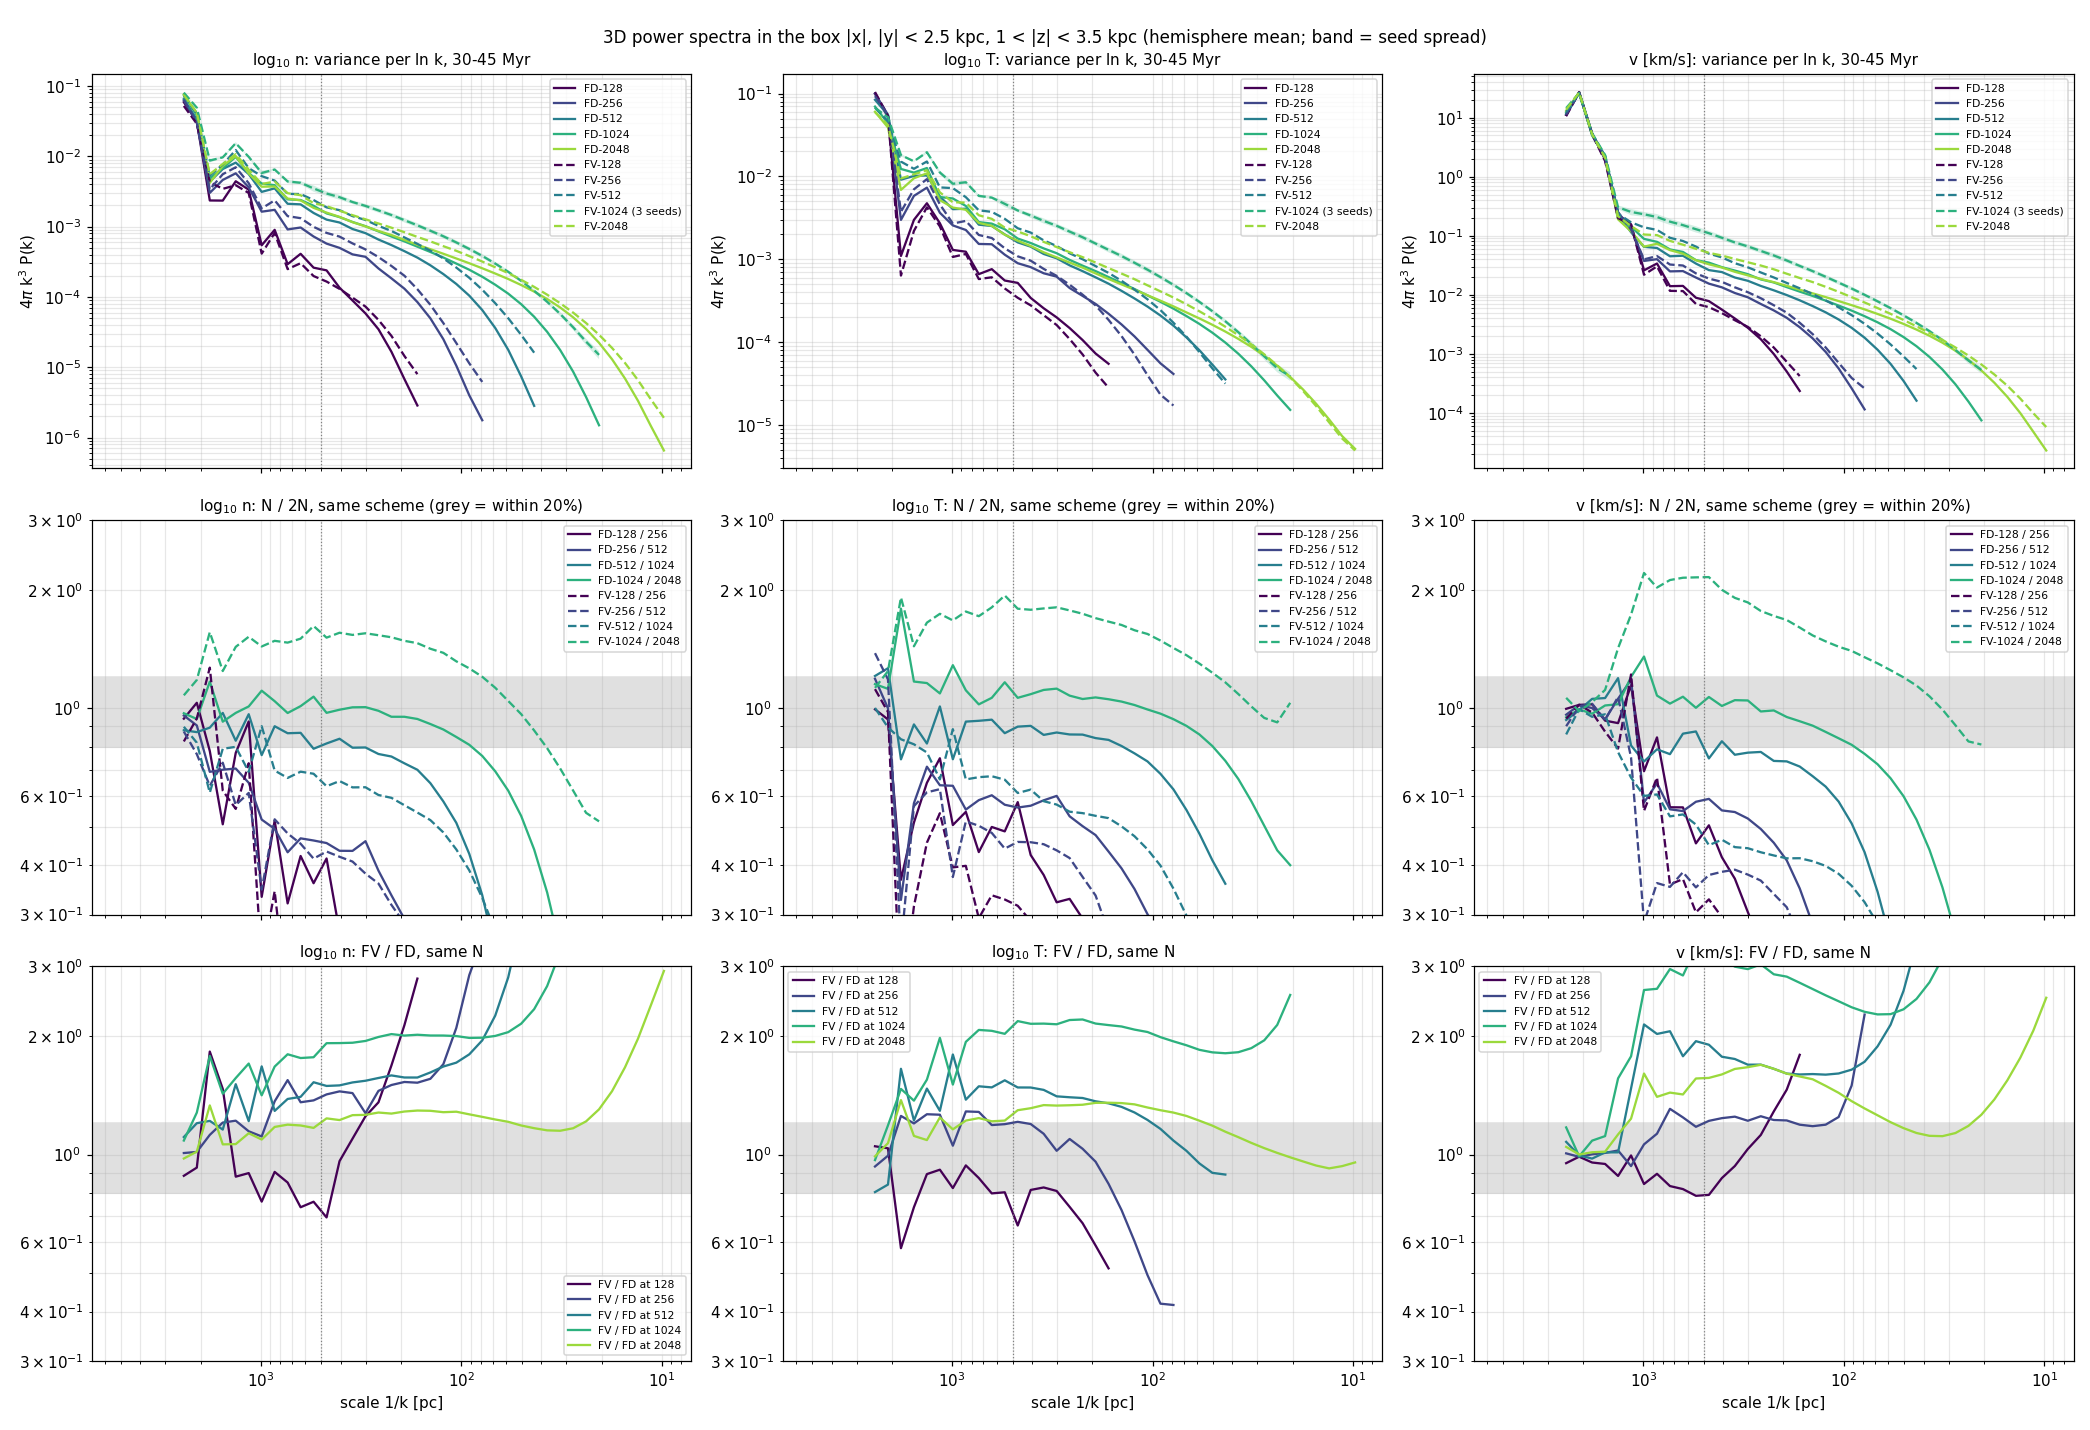
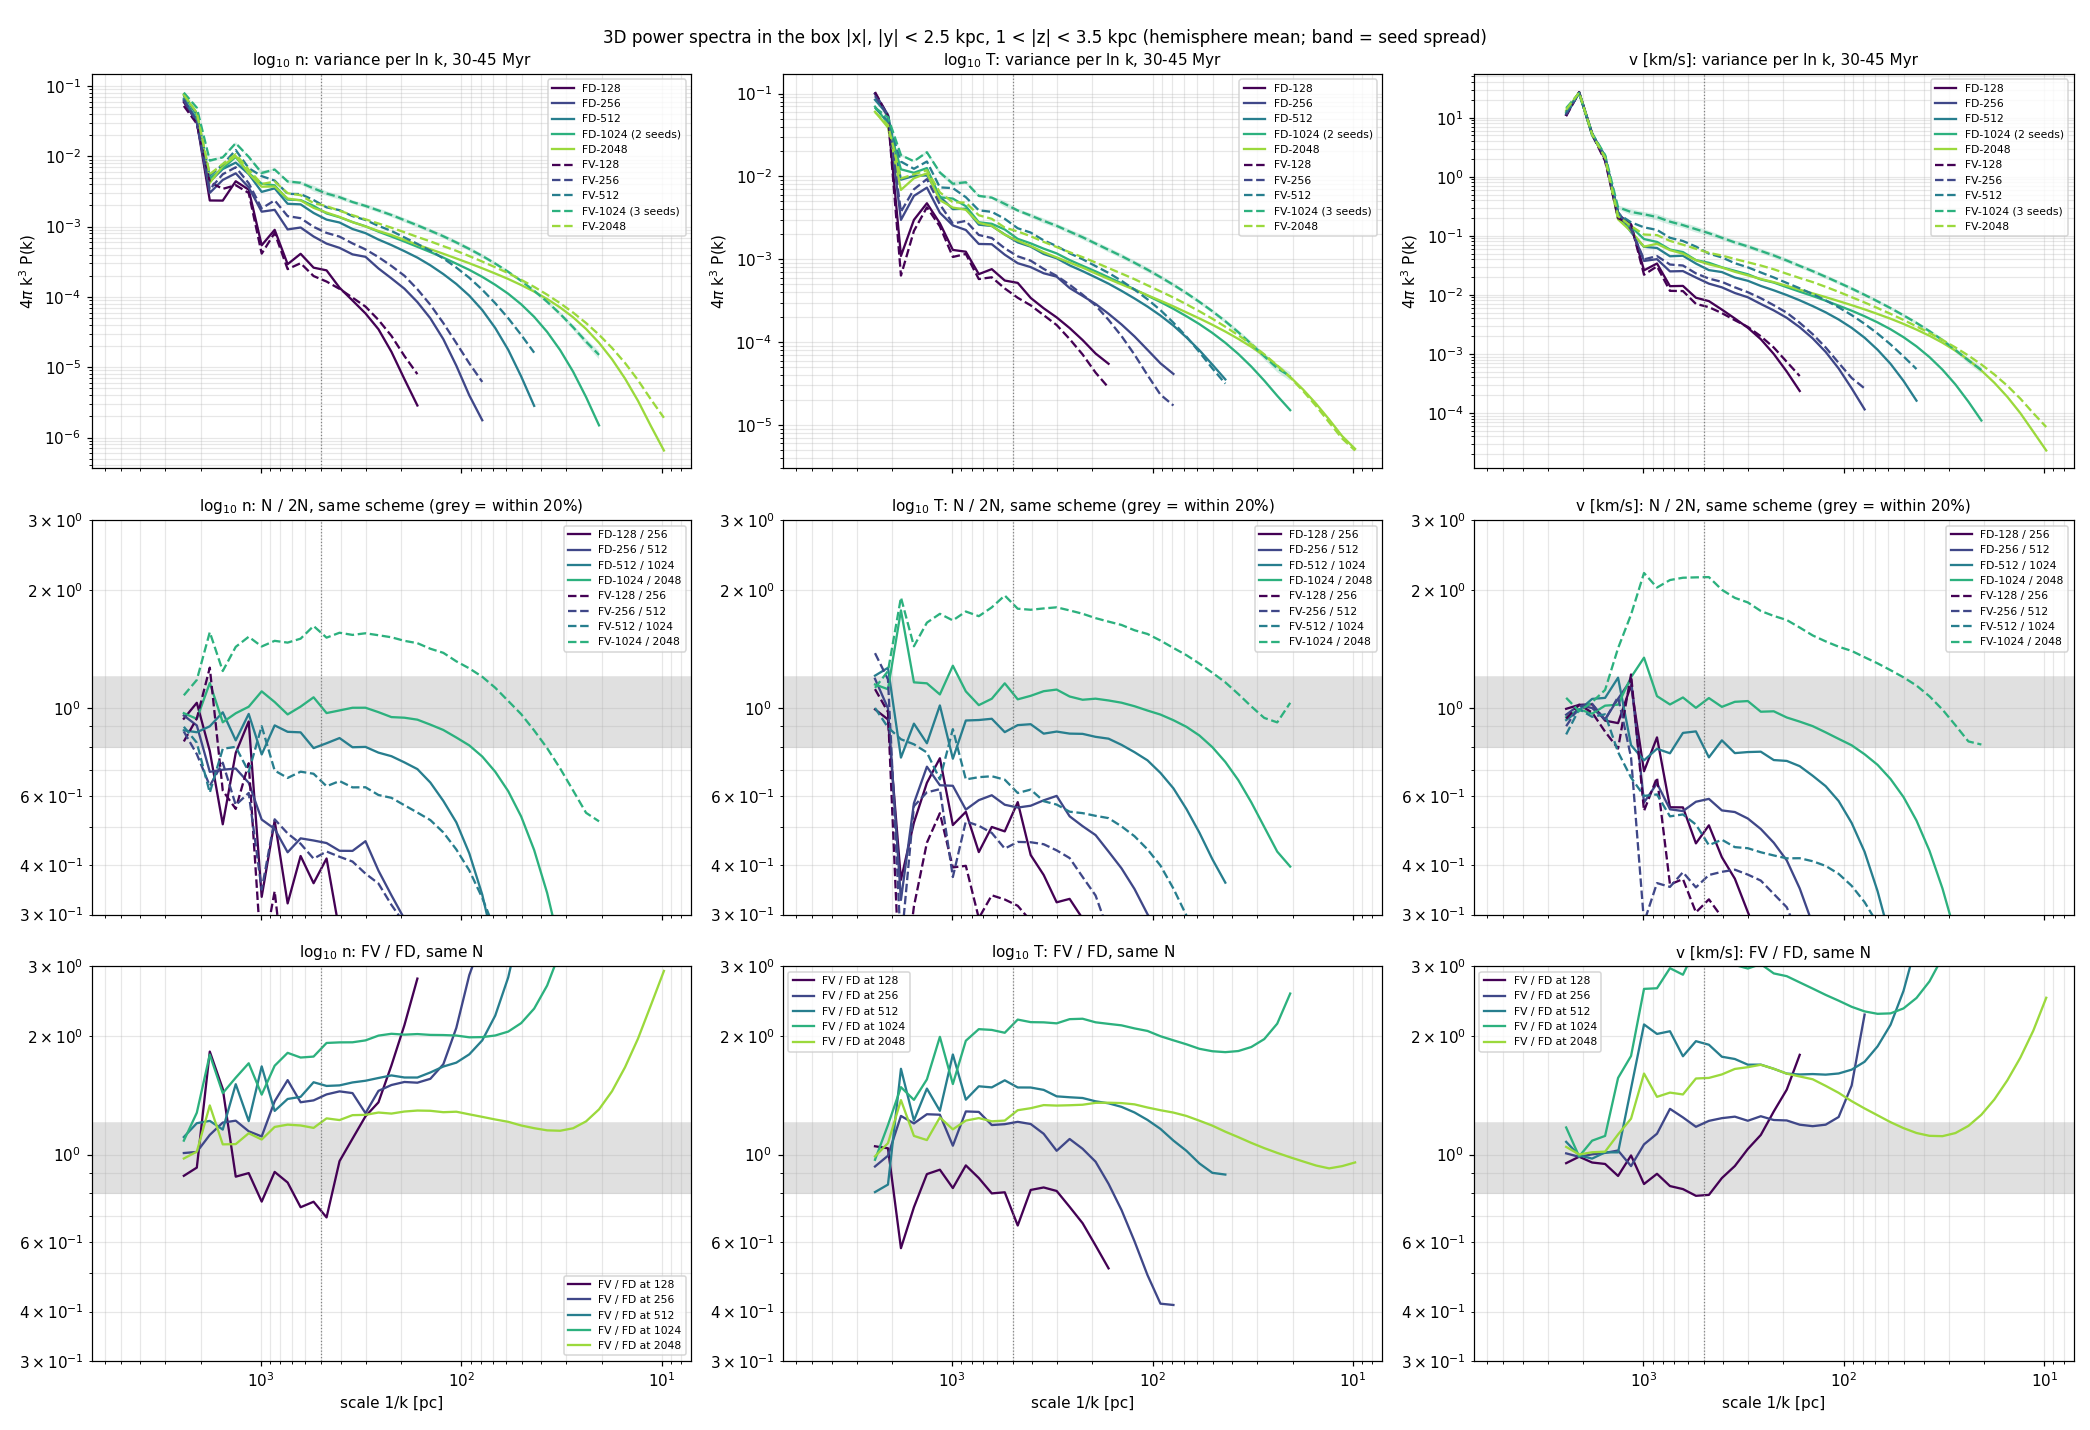
structure3d plots: + FD-1024 seed 1 (structure3d_v2_A1024s1 from JARVIS)
FD-1024 is now a 2-member ensemble. Seed spread of the 3D window means is small
for mixed mass/volume and mixing-layer area (<= 4 %), 7.4 % for the 45-75 Myr
thickness, 17-54 % for clump masses/numbers. Cost-accuracy verdicts unchanged.

diff --git a/pytests/self_gravity/cgols/cgols_structure_3d_plots.py b/pytests/self_gravity/cgols/cgols_structure_3d_plots.py
@@ -14,8 +14,8 @@ Quantities (both hemispheres summed, slab 1 < |z| < 4.5 kpc; entropy classes of 
                     converged scale l_c = smallest scale down to which the 3-bin-mean ratio to 2N stays within 20 %
                     (judged from 500 pc down, where the bins hold >= 300 modes, to 1/2 of the 2N Nyquist k)
 
-Ensembles: where seed members exist (FV-1024: base rerun + seeds 2, 3) the mean is shown and the member spread
-(std / mean) is printed and drawn as error bars. Window means only where every even checkpoint of the window exists.
+Ensembles: where seed members exist (FV-1024: base rerun + seeds 2, 3; FD-1024: base + seed 1) the mean is shown
+and the member spread (std / mean) is printed and drawn as error bars. Window means only where every even checkpoint of the window exists.
 
     python cgols_structure_3d_plots.py [--windows 15-30,30-45,45-75]
 
@@ -51,7 +51,7 @@ BOX_KPC = 10.0  # x extent of the A-series box (dx = BOX_KPC / N)
 
 #: (scheme, N) -> cache tags (several = seed ensemble)
 RUNS = {
-    ("FD", 128): ["_A128"], ("FD", 256): ["_A256"], ("FD", 512): ["_A512"], ("FD", 1024): ["_A1024"],
+    ("FD", 128): ["_A128"], ("FD", 256): ["_A256"], ("FD", 512): ["_A512"], ("FD", 1024): ["_A1024", "_A1024s1"],
     ("FD", 2048): ["_A2048"],
     ("FV", 128): ["_A128fv"], ("FV", 256): ["_A256fv"], ("FV", 512): ["_A512fvf32"],
     ("FV", 1024): ["_A1024fvr", "_A1024fvs2", "_A1024fvs3"], ("FV", 2048): ["_A2048fv"],
